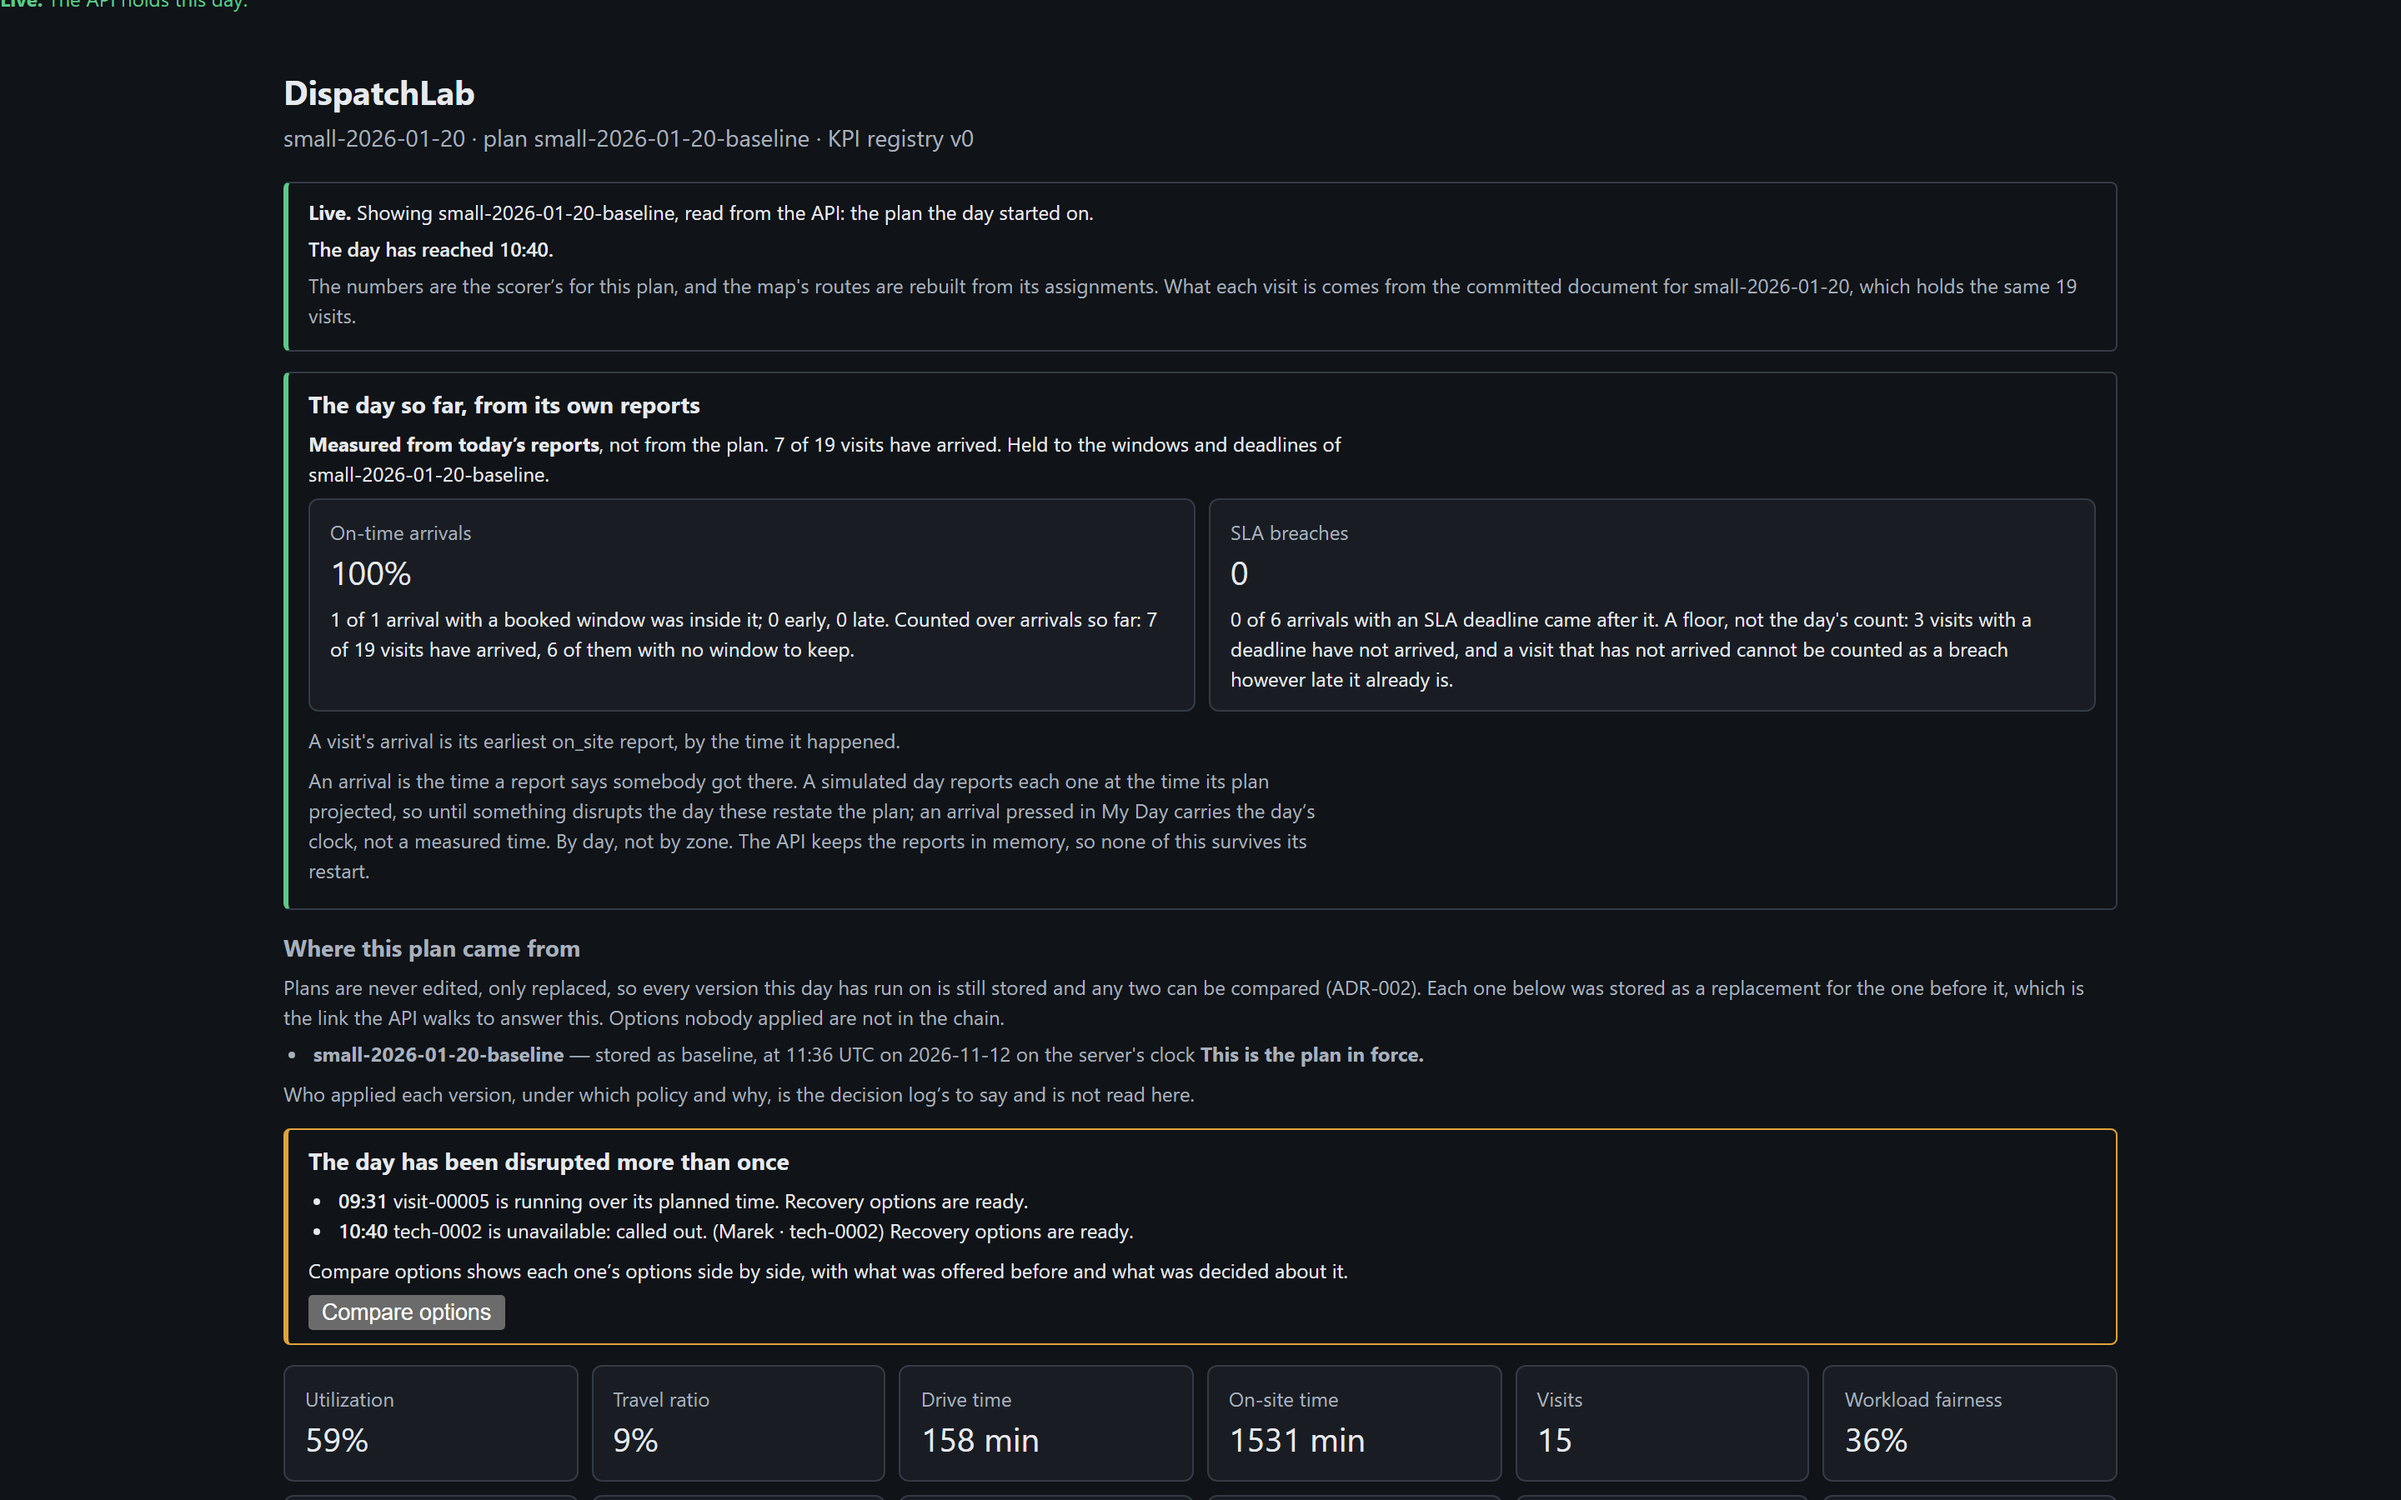
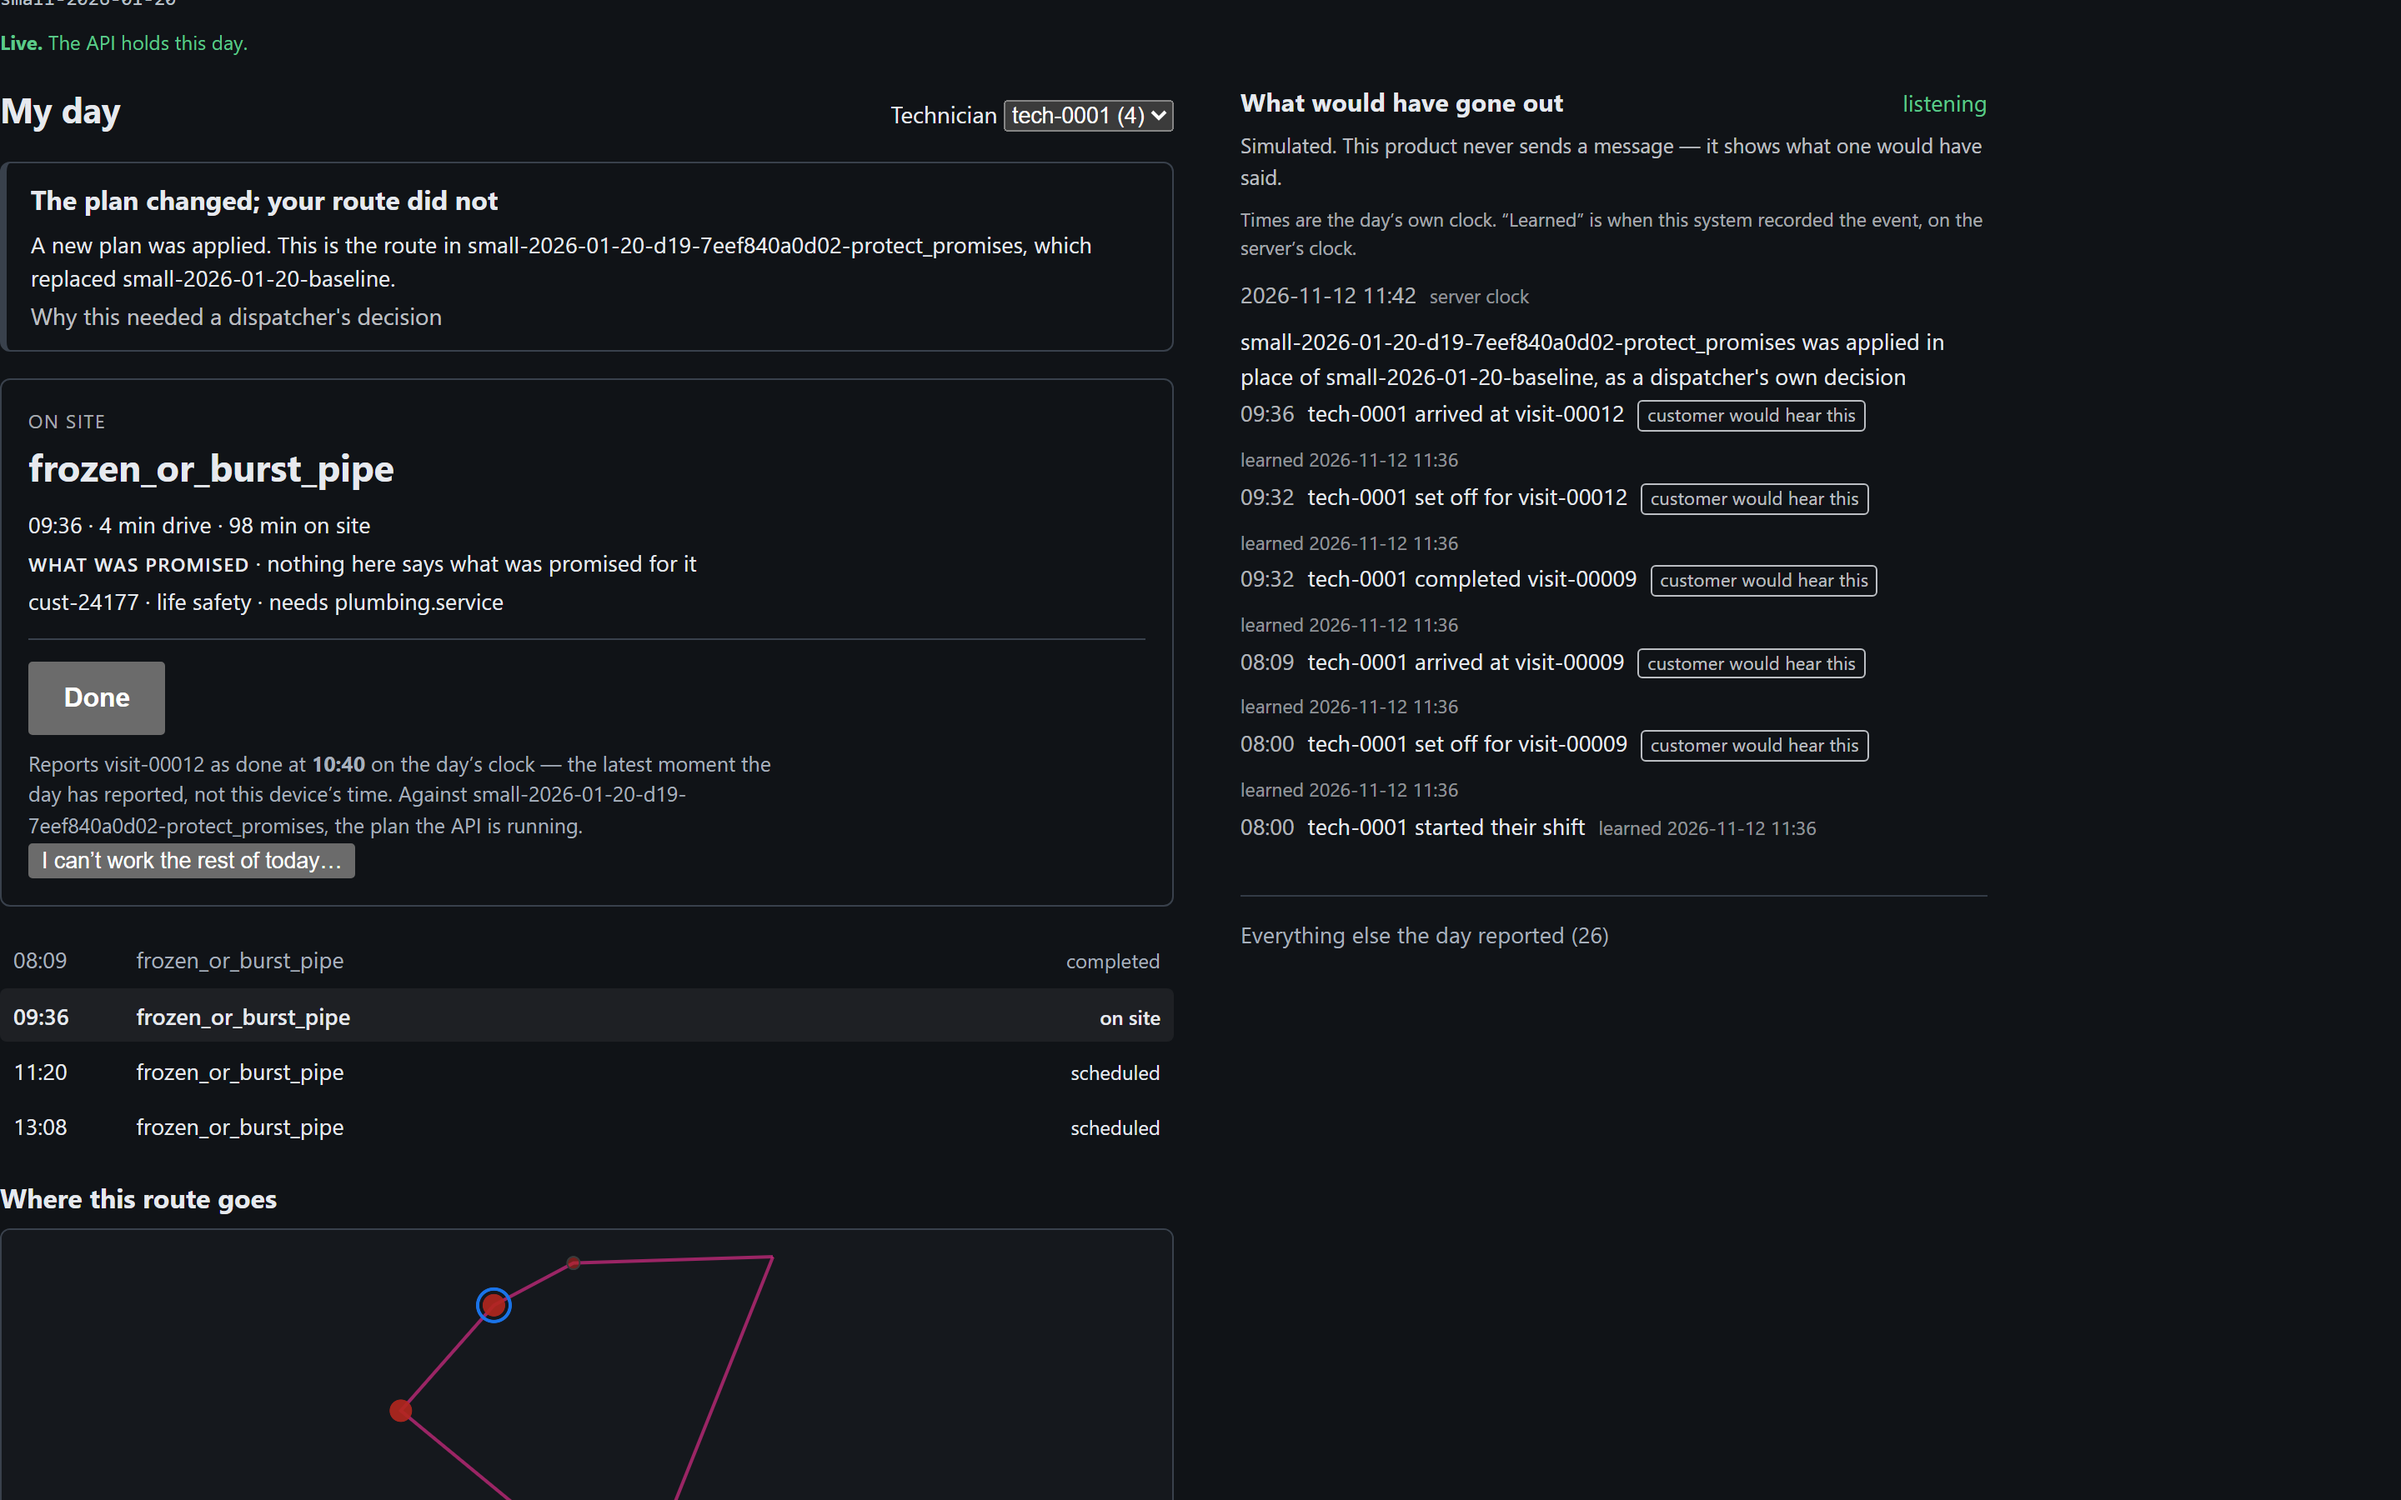
Fix the My Day screenshot, which was the board
`?view=myday` is not a token the shell knows — it is `mine` — and an unknown
view falls back to the default, so the capture silently produced the board
under a filename claiming the technician's view. Every token is now verified
against the h1 and the pressed nav button it lands on.

diff --git a/README.md b/README.md
@@ -79,9 +79,14 @@ so the empty space between two blocks is the answer, and no tooltip has to claim
 
 ![My Day: a technician's route, next stop, and the promises attached to it.](docs/screens/myday-light.png)
 
-**The technician** sees their own route, what is next, and the booked window and
-response-time promise attached to it — stated as facts, never as a verdict. The
-page holds no clock, so it will not tell somebody they are late.
+**The technician** sees their own route and what is next, and is told when a
+decision changed the plan under them. Reporting a stop done stamps it with *the
+day's own clock*, not the device's. Promises are stated as facts, never as a
+verdict — and when there is no promise on record it says that, rather than
+inferring one.
+
+The feed beside it is explicit that **nothing is ever sent**: it shows what a
+customer *would* have heard.
 
 </td>
 <td width="50%">
